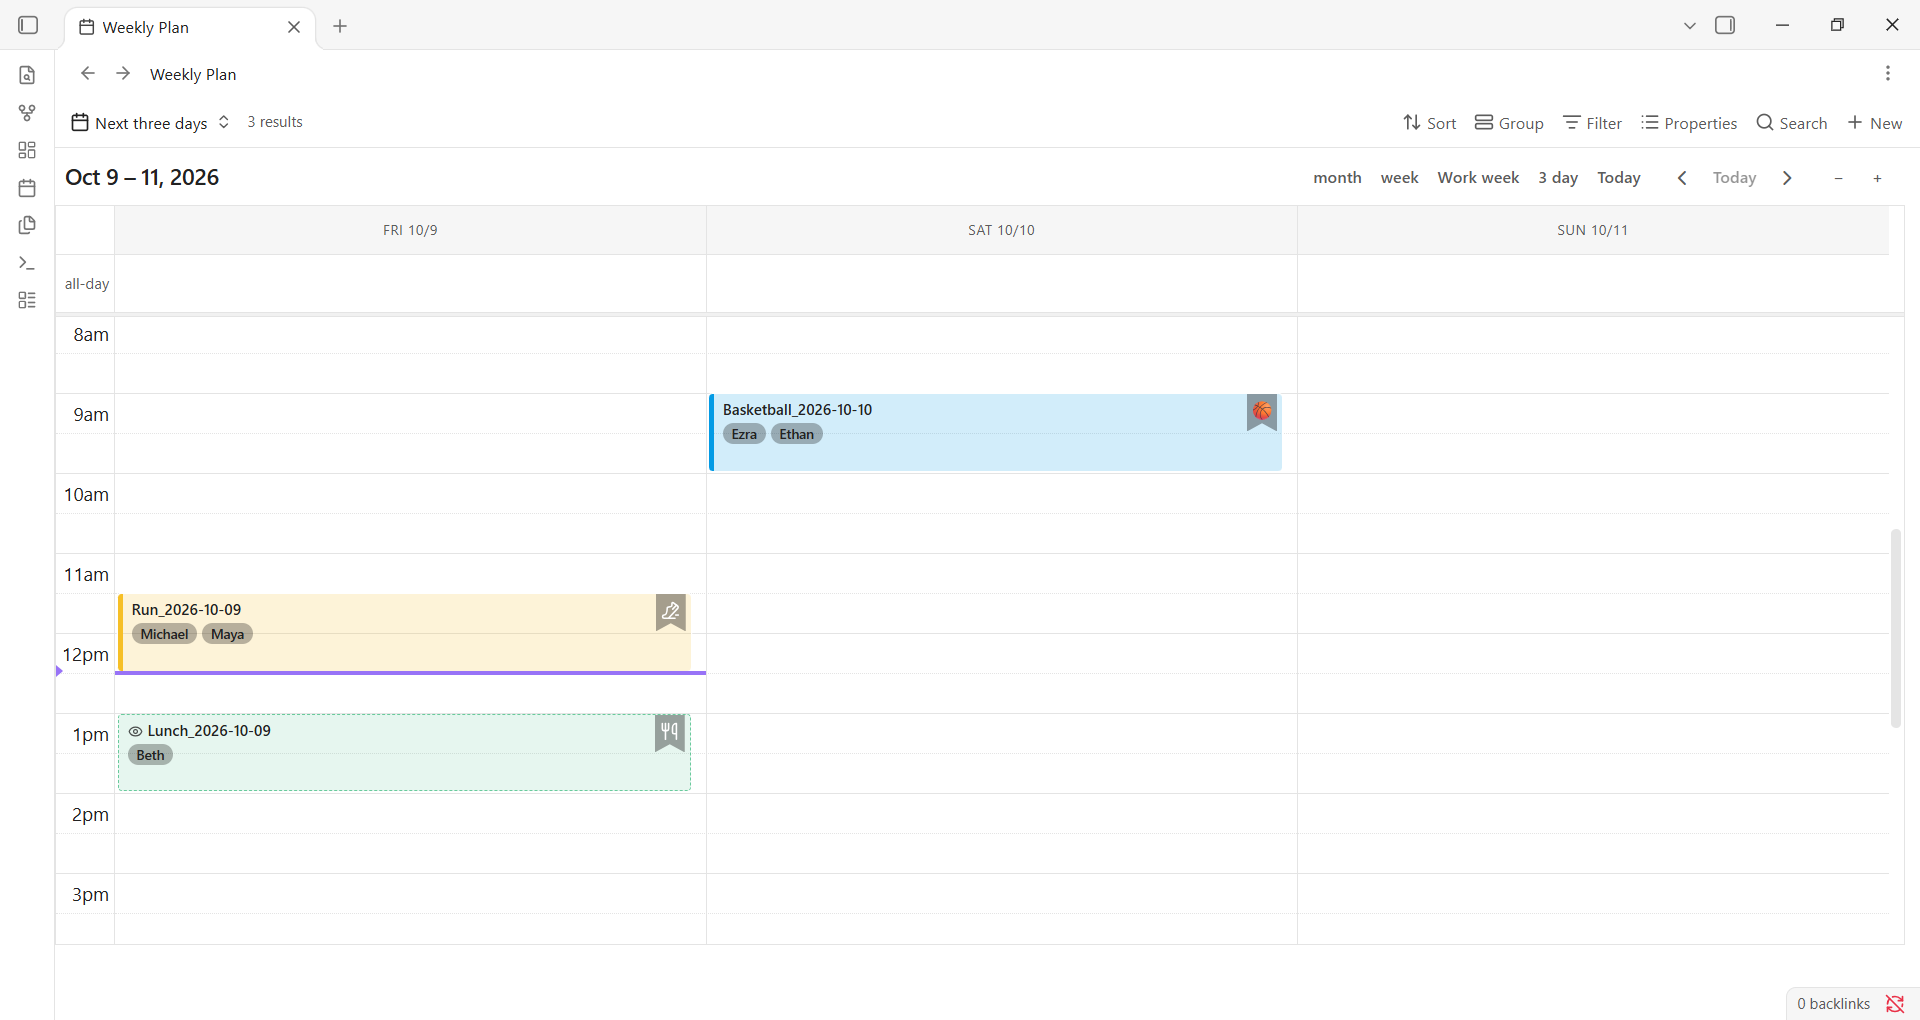
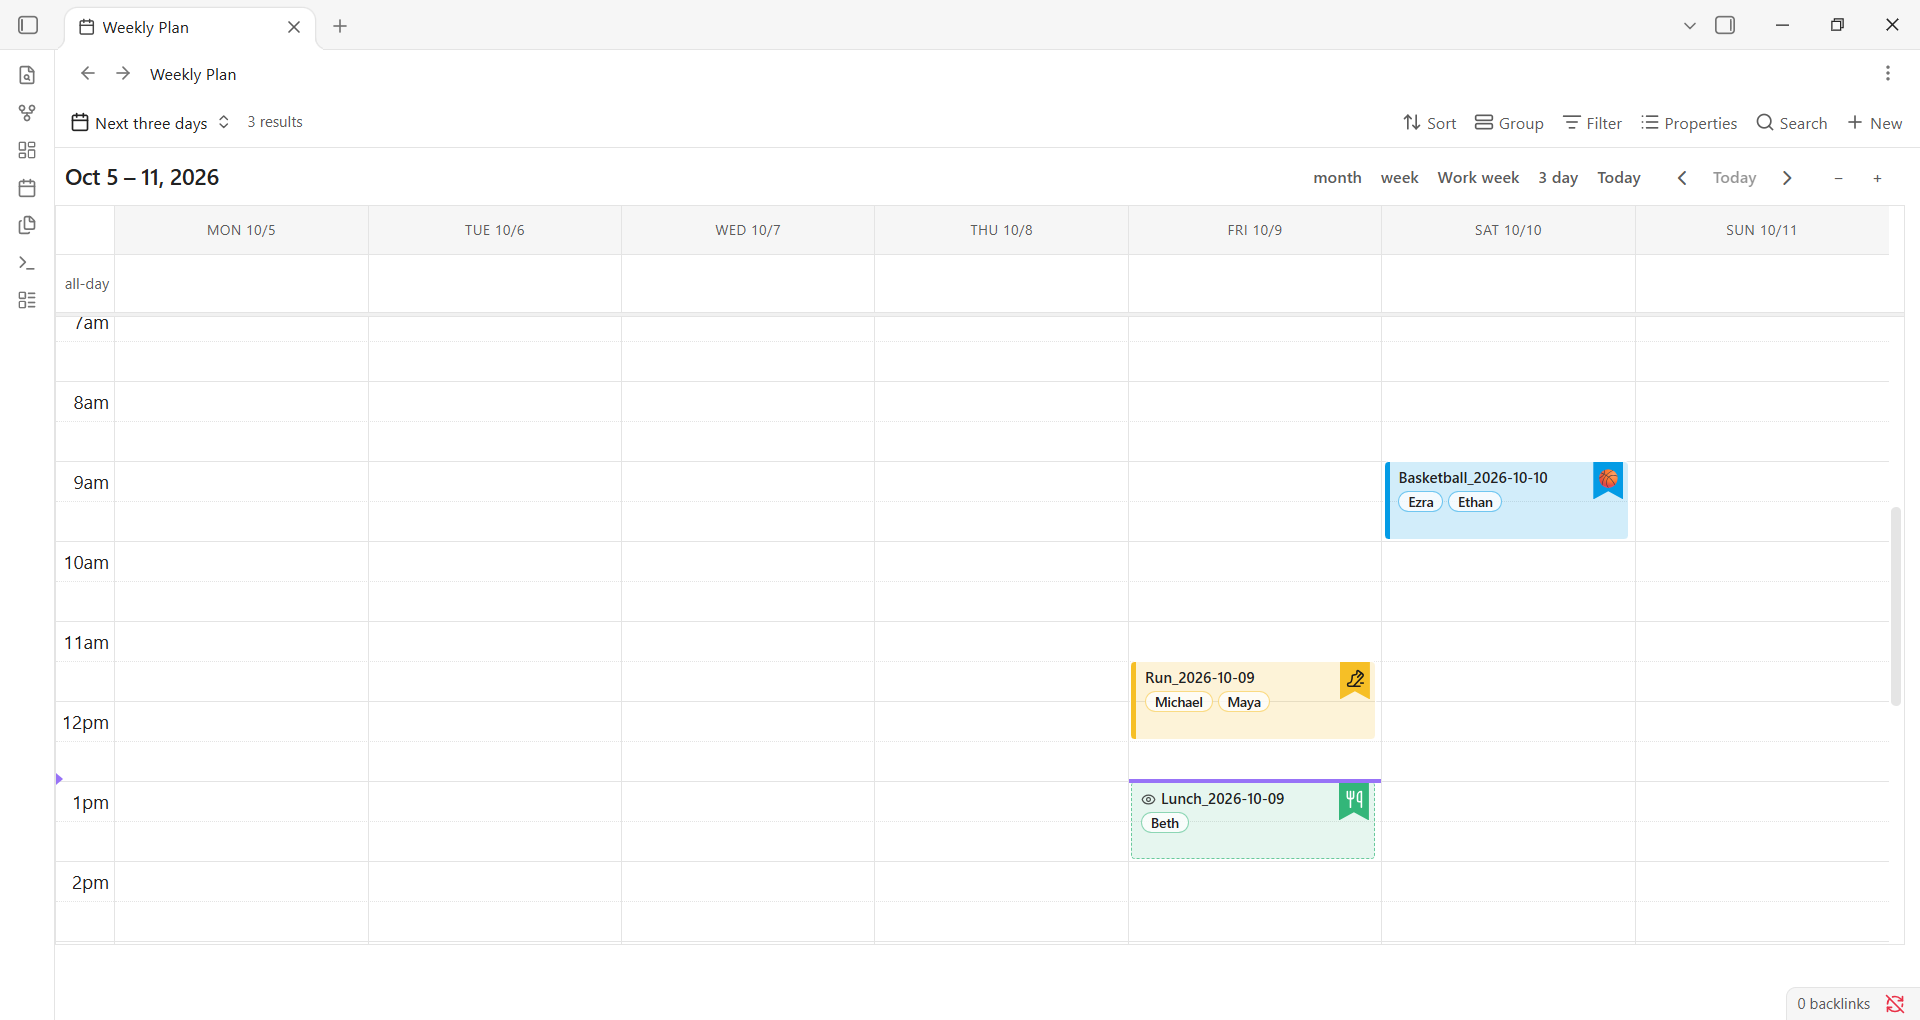
feat: add event titles and refine entry visuals
- Add a "Title property" option. Entries show their title, or the file
  name with any trailing date removed and underscores as spaces. The
  new-entry dialog saves the title and derives the file name from it.
- Draw the icon bookmark in the entry's solid colour with a readable
  icon colour instead of translucent grey.
- Use pale, bordered people pills in the light theme.
- Lighten the palette in dark mode so colours stay vivid.
- Reduce the text weight and shadow in the glass style.
- Update the README and refresh the screenshots.

diff --git a/src/CalendarReactView.tsx b/src/CalendarReactView.tsx
@@ -32,6 +32,7 @@ interface CalendarReactViewProps {
   scrollToTime: string;
   detailProperty: BasesPropertyId | null;
   iconProperty: BasesPropertyId | null;
+  titleProperty: BasesPropertyId | null;
   involvementProperty: BasesPropertyId | null;
   properties: BasesPropertyId[];
   onViewChange: (view: string) => void;
@@ -57,6 +58,7 @@ export const CalendarReactView: React.FC<CalendarReactViewProps> = ({
   scrollToTime,
   detailProperty,
   iconProperty,
+  titleProperty,
   involvementProperty,
   properties,
   onViewChange,
@@ -445,6 +447,16 @@ export const CalendarReactView: React.FC<CalendarReactViewProps> = ({
         }
       }
 
+      // Event title: the title property if the note has one, otherwise the file
+      // name with any trailing date removed and underscores shown as spaces.
+      let titleText = "";
+      if (titleProperty) {
+        const tv = tryGetValue(entry, titleProperty);
+        if (tv && hasNonEmptyValue(tv)) titleText = tv.toString().trim();
+      }
+      const titleIsFileName = !titleProp || titleProp.propertyId.startsWith("file.");
+      if (!titleText && titleIsFileName) titleText = cleanFileName(entry.file.basename);
+
       let iconText = "";
       if (iconProperty) {
         const iconValue = tryGetValue(entry, iconProperty);
@@ -462,9 +474,9 @@ export const CalendarReactView: React.FC<CalendarReactViewProps> = ({
           )}
           <div className="bases-calendar-event-title">
             {eventInfo.event.extendedProps.following && <FollowIcon />}
-            {titleProp
-              ? <ListPropertyValue value={titleProp.value} maxItems={1} />
-              : entry.file.basename}
+            {titleText
+              ? titleText
+              : titleProp && <ListPropertyValue value={titleProp.value} maxItems={1} />}
           </div>
           {detailNode && (
             <div className="bases-calendar-event-properties">{detailNode}</div>
@@ -472,7 +484,7 @@ export const CalendarReactView: React.FC<CalendarReactViewProps> = ({
         </div>
       );
     },
-    [properties, detailProperty, iconProperty, app, hasNonEmptyValue, iconIds],
+    [properties, detailProperty, iconProperty, titleProperty, app, hasNonEmptyValue, iconIds],
   );
 
   const handleSelect = useCallback(
@@ -602,4 +614,13 @@ function readableTextColor(hex: string): string {
   const g = (n >> 8) & 255;
   const b = n & 255;
   return 0.299 * r + 0.587 * g + 0.114 * b > 160 ? "#1a1a1a" : "#ffffff";
+}
+
+// "Kiara_Netball_Match_2026-10-17" -> "Kiara Netball Match"
+function cleanFileName(name: string): string {
+  const cleaned = name
+    .replace(/[\s_-]*\d{4}-\d{2}-\d{2}(?:_\d+)?$/, "")
+    .replace(/_+/g, " ")
+    .trim();
+  return cleaned || name;
 }

diff --git a/src/calendar-view.tsx b/src/calendar-view.tsx
@@ -39,6 +39,7 @@ export class CalendarView extends BasesView {
   private colorProp: BasesPropertyId | null = null;
   private detailProp: BasesPropertyId | null = null;
   private iconProp: BasesPropertyId | null = null;
+  private titleProp: BasesPropertyId | null = null;
   private involvementProp: BasesPropertyId | null = null;
   private weekStartDay: number = 1;
   private scrollToTime: string = "08:00:00";
@@ -101,6 +102,8 @@ export class CalendarView extends BasesView {
     this.involvementProp =
       this.config.getAsPropertyId("involvementProperty") ??
       ("note.involvement" as BasesPropertyId);
+    this.titleProp =
+      this.config.getAsPropertyId("titleProperty") ?? ("note.title" as BasesPropertyId);
     this.iconProp =
       this.config.getAsPropertyId("iconProperty") ?? ("note.icon" as BasesPropertyId);
 
@@ -195,6 +198,7 @@ export class CalendarView extends BasesView {
             scrollToTime={this.scrollToTime}
             detailProperty={this.detailProp}
             iconProperty={this.iconProp}
+            titleProperty={this.titleProp}
             involvementProperty={this.involvementProp}
             properties={this.config.getOrder() || []}
             onViewChange={(view) => { this.currentView = view; this.viewChosenByUser = true; }}
@@ -235,6 +239,7 @@ export class CalendarView extends BasesView {
         ? this.detailProp.slice(5)
         : "person";
     const iconProp = this.iconProp?.startsWith("note.") ? this.iconProp.slice(5) : "icon";
+    const titleProp = this.titleProp?.startsWith("note.") ? this.titleProp.slice(5) : "title";
     const colorProp = this.colorProp?.startsWith("note.") ? this.colorProp.slice(5) : "color";
     const involvementProp = this.involvementProp?.startsWith("note.")
       ? this.involvementProp.slice(5)
@@ -251,6 +256,7 @@ export class CalendarView extends BasesView {
         iconProp,
         involvementProp,
         colorProp,
+        titleProp,
         flagProp: this.newEntryFlag,
         onDone: () => this.calendarHandleRef.current?.unselect(),
       },
@@ -368,6 +374,12 @@ export class CalendarView extends BasesView {
             type: "property",
             key: "detailProperty",
             placeholder: "Property shown on 2nd line (e.g. people)",
+          },
+          {
+            displayName: "Title property",
+            type: "property",
+            key: "titleProperty",
+            placeholder: "Event title (default: title)",
           },
           {
             displayName: "Icon property",

diff --git a/styles.css b/styles.css
@@ -377,9 +377,9 @@ body {
   justify-content: center;
   padding-top: 6px;
   box-sizing: border-box;
-  background-color: rgba(0, 0, 0, 0.35);
+  background-color: var(--ev-color, rgba(0, 0, 0, 0.35));
   clip-path: polygon(0 0, 100% 0, 100% 100%, 50% 78%, 0 100%);
-  color: #fff;
+  color: var(--ev-text, #fff);
   line-height: 1;
 }
 
@@ -499,8 +499,16 @@ body {
   color: inherit;
 }
 
+.bases-calendar-style-glass .fc-event {
+  font-weight: 400 !important;
+}
+
 .bases-calendar-style-glass .bases-calendar-event-content {
-  text-shadow: 0 1px 2px rgba(0, 0, 0, 0.35);
+  text-shadow: 0 1px 1px rgba(0, 0, 0, 0.18);
+}
+
+.bases-calendar-style-glass .bases-calendar-event-title {
+  font-weight: 500;
 }
 
 .bases-calendar-style-solid .bases-calendar-event-bookmark {
@@ -567,4 +575,13 @@ body {
 .bases-calendar-swatch.is-selected {
   border-color: var(--text-normal);
   box-shadow: 0 0 0 2px var(--background-primary), inset 0 0 0 1px rgba(0, 0, 0, 0.25);
+}
+
+/* Light theme: pale pills with a thin border in the entry colour, instead of
+   dark grey pills on a pastel fill. */
+.theme-light .bases-calendar-chip {
+  background-color: rgba(255, 255, 255, 0.75);
+  border: 1px solid color-mix(in srgb, var(--ev-color, var(--background-modifier-border)) 55%, transparent);
+  color: var(--text-normal);
+  line-height: 1.4;
 }

diff --git a/src/colors.ts b/src/colors.ts
@@ -12,6 +12,16 @@ export const GOOGLE_CALENDAR_COLORS: Record<string, string> = {
   tomato: "#D50000",
 };
 
+// Mix a colour towards white. Used in dark mode, where the saturated palette
+// reads as muddy against a dark background.
+function lighten(hex: string, amount: number): string {
+  const mix = (v: number) => Math.round(v + (255 - v) * amount);
+  const r = mix(parseInt(hex.slice(1, 3), 16));
+  const g = mix(parseInt(hex.slice(3, 5), 16));
+  const b = mix(parseInt(hex.slice(5, 7), 16));
+  return "#" + [r, g, b].map((v) => v.toString(16).padStart(2, "0")).join("").toUpperCase();
+}
+
 function hexToRgba(hex: string, alpha: number): string {
   const r = parseInt(hex.slice(1, 3), 16);
   const g = parseInt(hex.slice(3, 5), 16);
@@ -40,6 +50,7 @@ export function resolveColor(
   if (!solid) return null;
   const isDark =
     typeof document !== "undefined" && document.body.classList.contains("theme-dark");
+  if (isDark) solid = lighten(solid, 0.3);
   return {
     backgroundColor: hexToRgba(solid, isDark ? 0.4 : 0.18),
     borderColor: solid,

diff --git a/src/create-entry.ts b/src/create-entry.ts
@@ -16,6 +16,7 @@ export interface NewEntryOptions {
   iconProp: string;
   involvementProp: string;
   colorProp: string;
+  titleProp: string;
   flagProp: string | null;
   onDone?: () => void;
 }
@@ -67,7 +68,7 @@ class NewEntryModal extends Modal {
       });
     };
 
-    new Setting(contentEl).setName("Name").addText((text) => {
+    new Setting(contentEl).setName("Title").setDesc("Shown on the calendar. The note is named after it.").addText((text) => {
       text.setPlaceholder("Activity name").onChange((v) => (this.title = v));
       text.inputEl.addEventListener("keydown", (evt) => {
         if (evt.key === "Enter") {
@@ -208,6 +209,7 @@ async function createEntry(
     }
     if (details.icon) fm[options.iconProp] = details.icon;
     fm[options.involvementProp] = details.involvement;
+    fm[options.titleProp] = title;
     if (details.color) fm[options.colorProp] = details.color;
     if (options.flagProp) fm[options.flagProp] = true;
   });

diff --git a/README.md b/README.md
@@ -114,6 +114,7 @@ All options are configured through the **Properties** panel (gear icon) of a cal
 | Option | Key | Description |
 |--------|-----|-------------|
 | **Detail property** | `detailProperty` | A frontmatter property shown on the second line of each event. Supports multi-select/list values — shows up to 2 items and a `+N` badge for the rest. If left blank, falls back to the first non-title property in your view's column order. |
+| **Title property** | `titleProperty` | A frontmatter property holding the event title shown on the calendar. Defaults to `title`. When a note has none, the file name is shown with any trailing `_YYYY-MM-DD` removed and underscores replaced by spaces. |
 | **Icon property** | `iconProperty` | A frontmatter property holding an emoji (`🏏`) or a Lucide icon name (`music` or `lucide-music`). Shown as a bookmark in the top-right of the entry. Defaults to `icon` when not set. |
 | **Involvement property** | `involvementProperty` | A frontmatter property whose value is `attending` or `following`. `following` entries are drawn with a lighter fill, a dashed border and a small eye icon. An empty value counts as attending. Defaults to `involvement` when not set. |
 | **Color property** | `colorProperty` | A frontmatter property whose value sets the event color. Accepts a Google Calendar color name (see table below) or a `#RRGGBB` hex value. Events with no color value use the default theme style. |
@@ -201,7 +202,7 @@ A dialog opens showing the date and time range and asks for:
 
 | Field | Saved to |
 |-------|----------|
-| **Name** | The note's filename, `Name_YYYY-MM-DD.md`. A `_2` suffix is added if that name is taken. |
+| **Title** | The title property (or `title`) and, with the date added, the note's filename: `Title_YYYY-MM-DD.md`. A `_2` suffix is added if that name is taken. |
 | **Who** *(optional)* | The detail property, or `person` if the detail property is not a note property. Several people can be separated by commas. |
 | **Icon** *(optional)* | The icon property, or `icon`. |
 | **Involvement** | The involvement property, or `involvement`. Attending or Following. |
